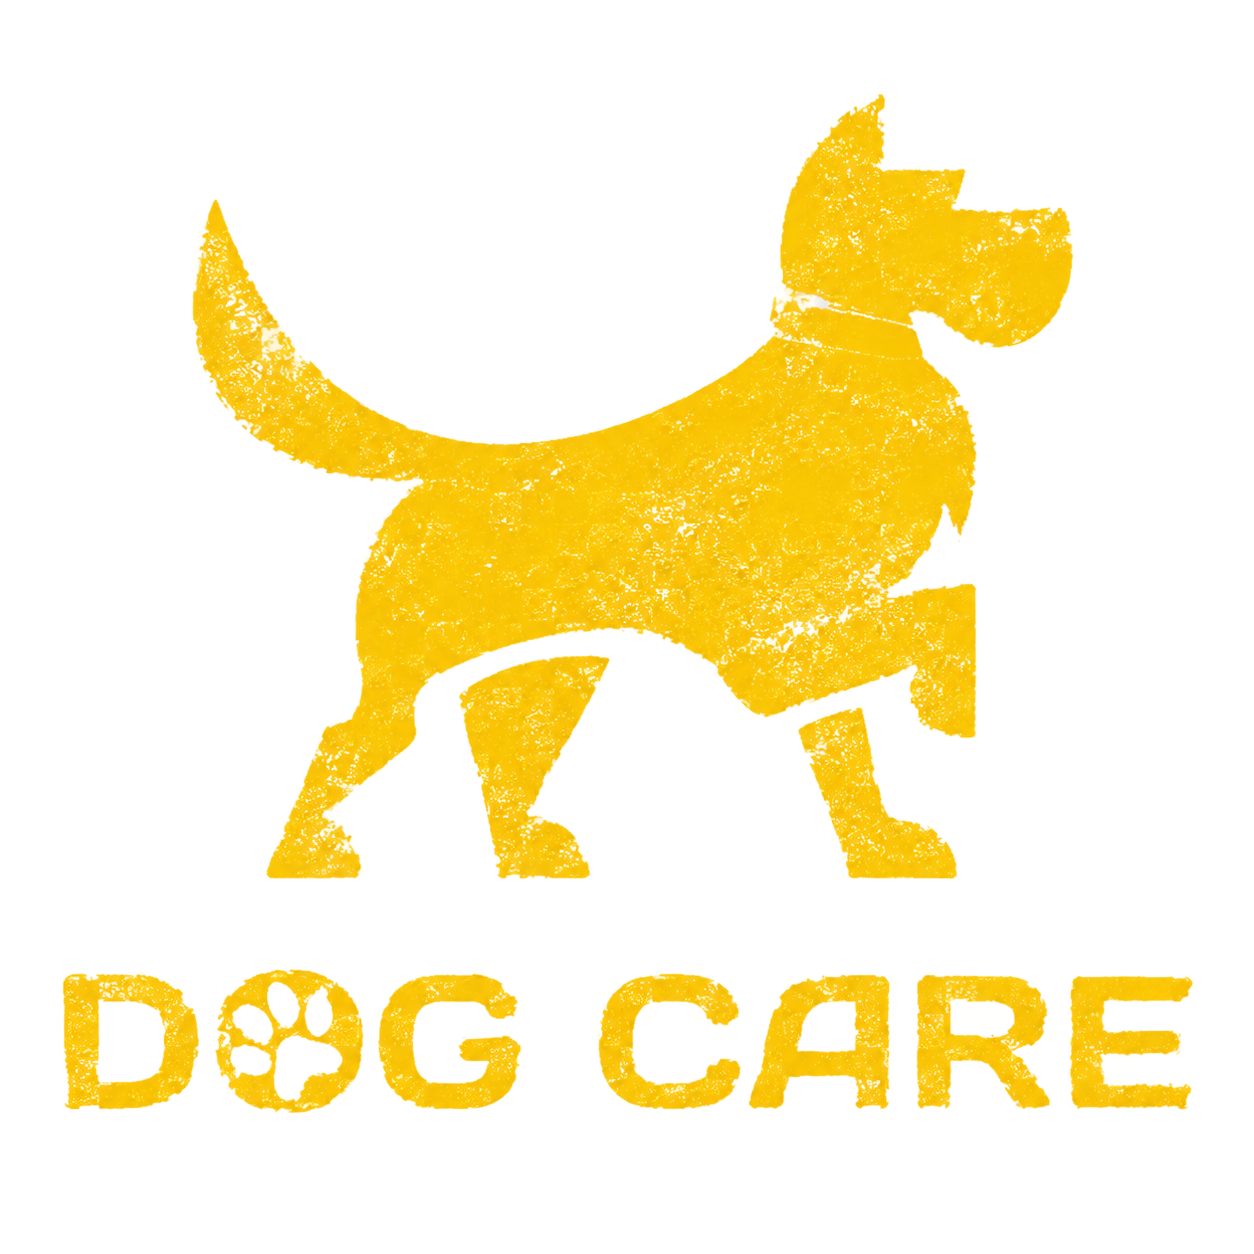
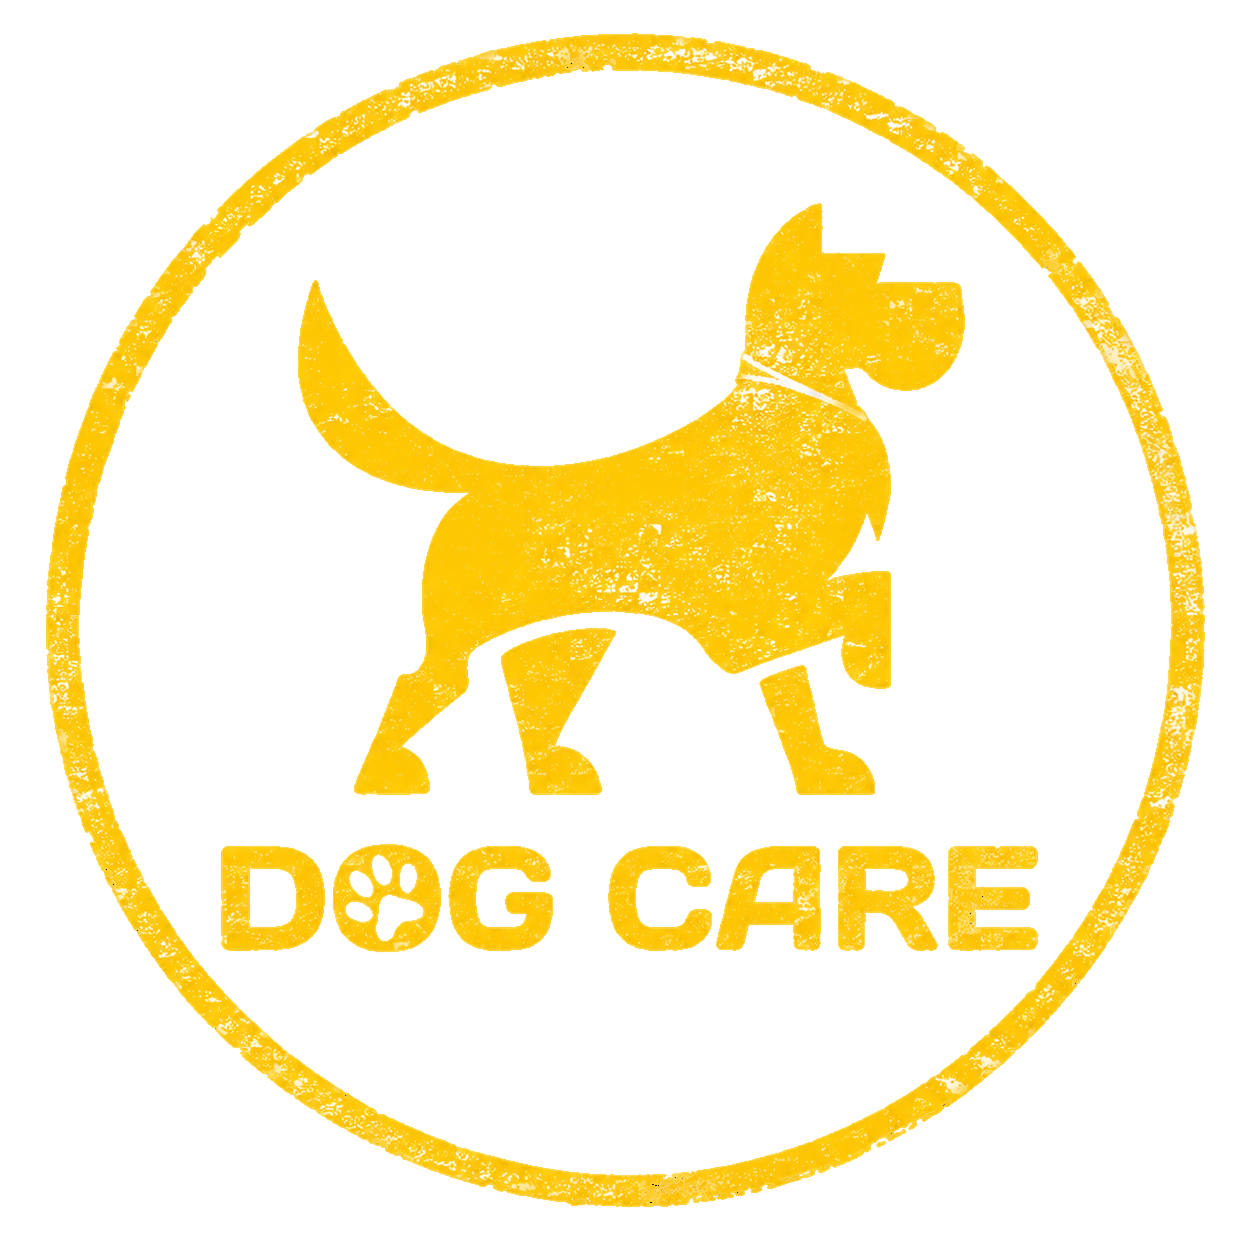
Штамп: нове зображення, mix-blend-mode screen, жовте світіння

Changed region(s): [[0.0311, 0.0, 0.9641, 0.9641]]

diff --git a/grooming.html b/grooming.html
@@ -648,9 +648,10 @@
       display: flex; justify-content: center; align-items: center;
     }
     .dc-rules-stamp img {
-      width: 190px; height: 190px;
+      width: 210px; height: 210px;
       transform: rotate(-8deg);
-      filter: drop-shadow(0 0 12px rgba(255,220,50,.55)) drop-shadow(0 0 28px rgba(255,200,0,.25));
+      mix-blend-mode: screen;
+      filter: drop-shadow(0 0 14px rgba(255,210,30,.6)) drop-shadow(0 0 32px rgba(255,190,0,.3));
     }
     @media (max-width: 700px) {
       .dc-rules-body { grid-template-columns: 1fr; }
